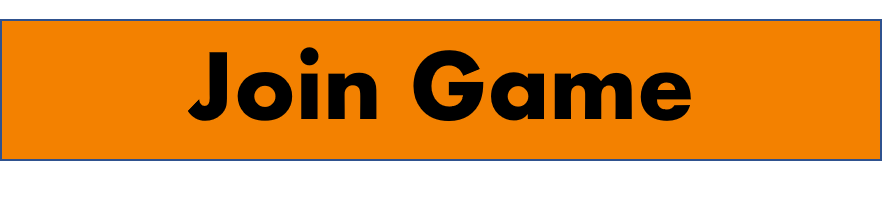
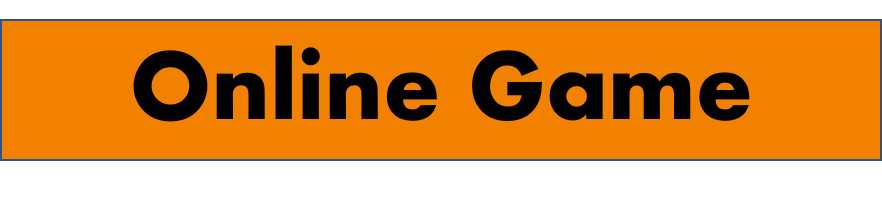
Added new menu options, but without functionality

Changed region(s): [[0.1531, 0.1991, 0.8571, 0.5972]]

diff --git a/scenes/StartingScene.ts b/scenes/StartingScene.ts
@@ -2,8 +2,10 @@ import Phaser, { NONE } from 'phaser';
 import { Player } from '../gameObjects/Player';
 import joinButtonImg from '../assets/menu/join_game.png';
 import exitButtonImg from '../assets/menu/exit.png';
+import localButtonImg from '../assets/menu/local_game.png';
 import joinButtonImgSel from '../assets/menu/join_game_selected.png';
 import exitButtonImgSel from '../assets/menu/exit_selected.png';
+import localButtonImgSel from '../assets/menu/local_game_selected.png';
 
 import { GameScene } from './GameScene';
 
@@ -12,7 +14,7 @@ export class StartScene extends Phaser.Scene {
   mousePosition?: Phaser.Math.Vector2;
   joinButton?: Phaser.GameObjects.Image;
   exitButton?: Phaser.GameObjects.Image;
-
+  localButton?: Phaser.GameObjects.Image;
   start: boolean = false;
 
   constructor() {
@@ -23,18 +25,27 @@ export class StartScene extends Phaser.Scene {
     this.load.image('joinButton', joinButtonImg);
     this.load.image('exitButtonSel', exitButtonImgSel);
     this.load.image('joinButtonSel', joinButtonImgSel);
+    this.load.image('localButton', localButtonImg);
+    this.load.image('localButtonSel', localButtonImgSel);
   }
 
   public create() {
     let start = false;
 
     this.cameras.main.setBackgroundColor('#f7d6a3');
+
     this.joinButton = this.add
-      .image(600, 100, 'joinButton')
+      .image(620, 100, 'joinButton')
       .setScale(0.5)
       .setInteractive();
+
+    this.localButton = this.add
+      .image(620, 200, 'localButton')
+      .setScale(0.5)
+      .setInteractive();
+
     this.exitButton = this.add
-      .image(600, 200, 'exitButton')
+      .image(620, 300, 'exitButton')
       .setScale(0.5)
       .setInteractive();
 
@@ -44,18 +55,19 @@ export class StartScene extends Phaser.Scene {
       this.scene.start('gameScene');
     });
 
-    this.joinButton.on('', () => {
+    this.localButton.on('pointerup', () => {
       //joinButton.setInteractive(false);
       //exitButton.setInteractive(false);
       this.scene.start('gameScene');
     });
 
     this.exitButton.on('pointerup', () => {
-      this.add.text(600, 360, 'Håll käft', { fontSize: '64px', color: '#000' });
+      this.add.text(420, 420, 'Håll käft', { fontSize: '64px', color: '#000' });
     });
   }
 
   public update() {
+    let menuVal = 1;
     const gamepad: Phaser.Input.Gamepad.Gamepad | undefined = this.input.gamepad
       ?.pad1;
 
@@ -64,14 +76,65 @@ export class StartScene extends Phaser.Scene {
       'down',
     );
 
+    const spacekey: Phaser.Input.Keyboard.Key = this.input.keyboard.addKey(
+      'space',
+    );
+    const enterkey: Phaser.Input.Keyboard.Key = this.input.keyboard.addKey(
+      'enter',
+    );
+
+    const confirm: Boolean =
+      spacekey.isDown ||
+      enterkey.isDown ||
+      gamepad?.A ||
+      gamepad?.B ||
+      !!gamepad?.R2;
+
     this.gameObjects.forEach(o => o.update());
 
     if (upkey.isDown || gamepad?.up) {
-      this.joinButton?.setTexture('joinButtonSel');
       this.exitButton?.setTexture('exitButton');
-    } else if (downkey.isDown || gamepad?.down) {
-      this.exitButton?.setTexture('exitButtonSel');
       this.joinButton?.setTexture('joinButton');
+      this.localButton?.setTexture('localButton');
+
+      menuVal = menuVal - 1;
+    }
+    if (downkey.isDown || gamepad?.down) {
+      this.exitButton?.setTexture('exitButton');
+      this.joinButton?.setTexture('joinButton');
+      this.localButton?.setTexture('localButton');
+
+      menuVal = menuVal + 1;
+    }
+
+    if (menuVal > 3) {
+      menuVal = 3;
+    }
+    if (menuVal < 1) {
+      menuVal = 1;
+    }
+
+    switch (menuVal) {
+      case 1:
+        this.joinButton?.setTexture('joinButtonSel');
+      case 2:
+        this.localButton?.setTexture('localButtonSel');
+      case 3:
+        this.exitButton?.setTexture('exituttonSel');
+    }
+
+    if (confirm == true) {
+      switch (menuVal) {
+        case 1:
+          this.scene.start('gameScene');
+        case 2:
+          this.scene.start('gameScene');
+        case 3:
+          this.add.text(420, 420, 'Håll käft', {
+            fontSize: '64px',
+            color: '#000',
+          });
+      }
     }
   }
 }
